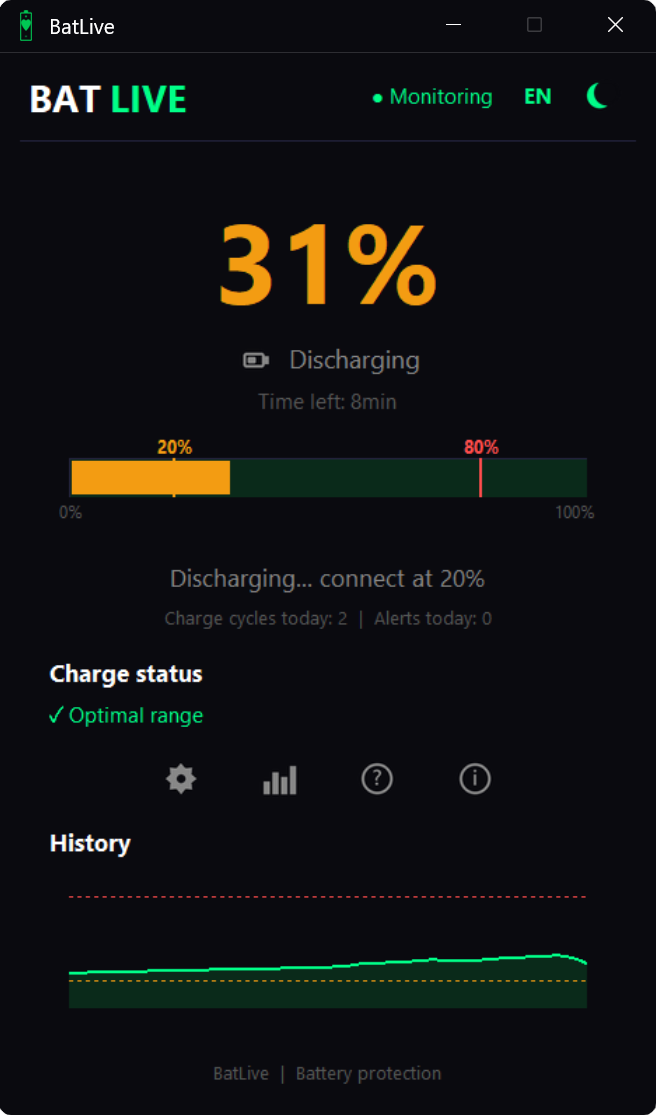
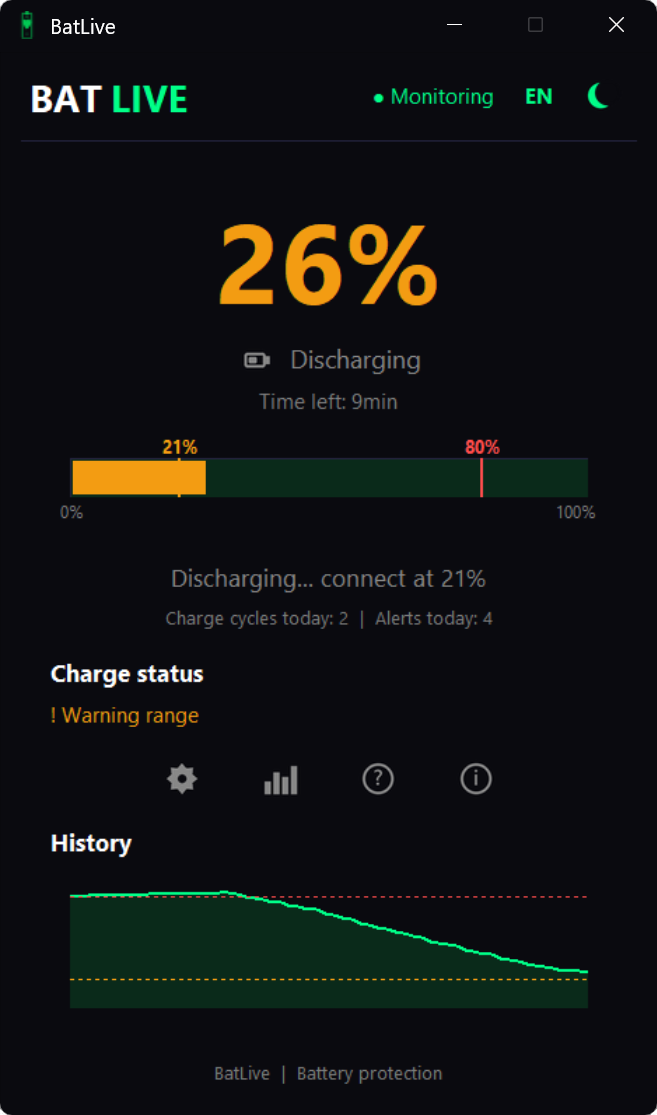
Update demo video, screenshots and UI adjustments

diff --git a/script.js b/script.js
@@ -69,11 +69,11 @@ const T = {
     ssH2: 'Controla el nivel de carga de la batería',
     ssSub: 'BatLive supervisa y te avisa cuándo debes conectar o desconectar el cargador',
     ss1Cap: 'Batería baja · conectar',
-    ss2Cap: 'Nivel óptimo · 31%',
+    ss2Cap: 'Rango óptimo',
     ss3Cap: 'Carga alta · desconectar',
-    stateEyebrow: 'Estado y ajustes',
-    stateDiagTitle: 'Estados de salud de la batería',
-    stateDiagText: 'BatLive analiza los parámetros del sistema para mostrar el estado actual de la batería: Buena <span class="dot-sep"></span> Regular <span class="dot-sep"></span> Degradada <span class="dot-sep"></span> Estado crítico',
+    stateEyebrow: 'Estado',
+    stateDiagTitle: 'Salud de la batería',
+    stateDiagText: 'La aplicación analiza y evalúa el estado actual de la batería: Buena <span class="dot-sep"></span> Regular <span class="dot-sep"></span> Degradada <span class="dot-sep"></span> Estado crítico',
 
     priceEyebrow: 'Precio',
     priceH2: 'Pago único — para siempre',
@@ -179,11 +179,11 @@ const T = {
     ssH2: 'Monitors the battery charge level',
     ssSub: 'BatLive monitors and notifies you when it\'s time to plug in or unplug the charger',
     ss1Cap: 'Low battery · connect',
-    ss2Cap: 'Optimal level · 31%',
+    ss2Cap: 'Optimal range',
     ss3Cap: 'High charge · disconnect',
-    stateEyebrow: 'Status & Settings',
-    stateDiagTitle: 'Battery health states',
-    stateDiagText: 'BatLive analyzes the system and displays battery status: Good <span class="dot-sep"></span> Normal <span class="dot-sep"></span> Degraded <span class="dot-sep"></span> Critical',
+    stateEyebrow: 'Status',
+    stateDiagTitle: 'Battery Health',
+    stateDiagText: 'The application analyzes and evaluates the current state of the battery: Good <span class="dot-sep"></span> Normal <span class="dot-sep"></span> Degraded <span class="dot-sep"></span> Critical state',
     priceEyebrow: 'Pricing',
     priceH2: 'Pay once — yours forever',
     perkSub: 'No subscription or renewals',
@@ -288,11 +288,11 @@ const T = {
     ssH2: 'Контролирует уровень заряда батареи',
     ssSub: 'BatLive отслеживает и уведомляет, когда нужно подключить или отключить зарядное устройство',
     ss1Cap: 'Низкий заряд · подключить',
-    ss2Cap: 'Оптимальный уровень · 31%',
+    ss2Cap: 'Оптимальный диапазон',
     ss3Cap: 'Высокий заряд · отключить',
-    stateEyebrow: 'Состояние и настройки',
-    stateDiagTitle: 'Состояния здоровья аккумулятора',
-    stateDiagText: 'BatLive анализирует систему и показывает состояние аккумулятора: Хорошее <span class="dot-sep"></span> Среднее <span class="dot-sep"></span> Изношен <span class="dot-sep"></span> Критическое состояние',
+    stateEyebrow: 'Состояние',
+    stateDiagTitle: 'Здоровье аккумулятора',
+    stateDiagText: 'Приложение анализирует текущее состояние аккумулятора: Хорошее <span class="dot-sep"></span> Среднее <span class="dot-sep"></span> Изношен <span class="dot-sep"></span> Критическое состояние',
     priceEyebrow: 'Цена',
     priceH2: 'Разовая покупка — навсегда',
     perkSub: 'Без подписки и продлений',

diff --git a/index.html b/index.html
@@ -373,12 +373,12 @@
 <section class="state reveal">
   <div class="container">
     <div class="state-header">
-      <p class="eyebrow" id="state-eyebrow">Status & Settings</p>
+      <p class="eyebrow" id="state-eyebrow">Status</p>
     </div>
 
     <div class="state-grid">
       <img class="state-shot state-shot--left  reveal-child" src="./img/app-battery.png"     alt="Battery health · 96%" onerror="this.style.display='none'">
-      <img class="state-shot state-shot--right reveal-child" src="./img/app-settings-ok.png" alt="Settings · 20-80"     onerror="this.style.display='none'">
+      <img class="state-shot state-shot--right reveal-child" src="./img/app-battery-critical.png" alt="Battery critical · 38%"     onerror="this.style.display='none'">
     </div>
 
     <div class="state-diag reveal-child">

diff --git a/style.css b/style.css
@@ -662,7 +662,7 @@ section h2 {
   border-bottom: 1px solid var(--border);
 }
 .state-header {
-  margin-bottom: 56px;
+  margin-bottom: 24px;
 }
 
 .state-grid {
@@ -670,7 +670,7 @@ section h2 {
   justify-content: space-between;
   align-items: flex-start;
   gap: 40px;
-  margin-bottom: 64px;
+  margin-bottom: 36px;
 }
 .state-shot {
   display: block;